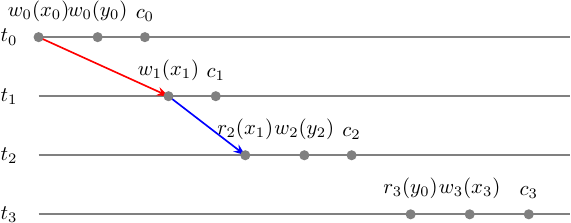
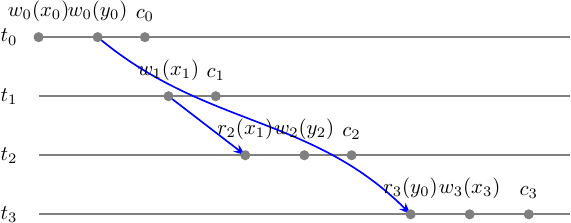
mvsr

diff --git a/public/mvcc/chsgcg.tex b/public/mvcc/chsgcg.tex
@@ -1,0 +1,39 @@
+\documentclass[preview]{standalone}
+\usepackage{tikz,fullpage,tikz-network,verbatim}
+\usetikzlibrary{arrows, petri, topaths, calc, angles, quotes}
+\begin{document}
+\begin{tikzpicture}[scale=1,transform shape,
+>={Stealth[round]},thick,black!50,text=black,
+every new ->/.style={shorten >=1pt},
+graphs/every graph/.style={edges=rounded corners}]
+
+  % \draw (0, 0) grid (10, 5);
+  
+  \draw (0.5, 2) node {$t_1$} (1, 2) -- (10, 2) node { };
+  \draw (0.5, 1) node {$t_2$} (1, 1) -- (10, 1) node { };
+ 
+  % $$ s = r_1(x) w_1(x) r_2(x) w_2(y) r_1(y) w_1(z) c_1 c_2 $$
+  \coordinate (r1x) at (1,2);
+  \coordinate (w1x) at (2,2);
+  \coordinate (r2x) at (3,1);
+  \coordinate (w2y) at (4,1);
+  \coordinate (r1y) at (5,2);
+  \coordinate (w1z) at (6,2);
+  \coordinate (c1)  at (7,2);
+  \coordinate (c2)  at (8,1);
+
+  % conflict graph
+  \draw [red,->,-{Stealth[length=2mm]}] (w1x) -- (r2x);
+  \draw [red,->,-{Stealth[length=2mm]}] (w2y) -- (r1y);
+
+  % step graph
+  \filldraw (r1x) circle [radius=2pt] node [label=above:$r_1(x)$] {};
+  \filldraw (w1x) circle [radius=2pt] node [label=above:$w_1(y)$] {};
+  \filldraw (r2x) circle [radius=2pt] node [label=above:$r_2(x)$] {};
+  \filldraw (w2y) circle [radius=2pt] node [label=above:$w_2(y)$] {};
+  \filldraw (r1y) circle [radius=2pt] node [label=above:$r_1(y)$] {};
+  \filldraw (w1z) circle [radius=2pt] node [label=above:$w_1(z)$] {};
+  \filldraw (c1)  circle [radius=2pt] node [label=above:$c_1$] {};
+  \filldraw (c2)  circle [radius=2pt] node [label=above:$c_2$] {};
+\end{tikzpicture}
+\end{document}

diff --git a/public/mvcc/mvsg.tex b/public/mvcc/mvsg.tex
@@ -1,0 +1,21 @@
+\documentclass[preview]{standalone}
+\usepackage{tikz,fullpage,tikz-network,verbatim}
+\usetikzlibrary{arrows, petri, topaths, calc, angles, quotes}
+\begin{document}
+\begin{tikzpicture}[scale=1,transform shape]
+  % \draw (0, 0) grid (6, 6);
+
+  \SetVertexStyle[FillColor=white,TextFont=\large,MinSize=22]
+  \Vertex[x=1,y=3,label=$t_0$]{t0}
+  \Vertex[x=3,y=5,label=$t_1$]{t1}
+  \Vertex[x=3,y=1,label=$t_2$]{t2}
+  \Vertex[x=5,y=3,label=$t_3$]{t3}
+
+  \SetEdgeStyle[TextFont=\large,LineWidth=0.6pt,InnerSep=0.5pt,Color=red!75]
+  \Edge[label=wr[y],Direct,bend=30](t0)(t3)
+  \Edge[label=wr[x],Direct,bend=-10](t1)(t2)
+  \Edge[label=rw[x],Direct](t2)(t0)
+  \Edge[label=rw[x],Direct](t2)(t3)
+  \Edge[label=ww[y],Direct,bend=50](t2)(t0)
+\end{tikzpicture}
+\end{document}

diff --git a/public/mvcc/mv_step_graph_wcs2.tex b/public/mvcc/mv_step_graph_wcs2.tex
@@ -28,9 +28,11 @@ graphs/every graph/.style={edges=rounded corners}]
   \coordinate (c3)   at (9.3,1);
 
   % mvcs = {(r_2(x_1), w_3(x_3))}
-  % \draw [red,->,-{Stealth[length=2mm]}] (w0x0) to [out=320] (w1x1);
   \draw [blue,->,-{Stealth[length=2mm]}] (w0y0) to [out=320] (r3y0);
   \draw [blue,->,-{Stealth[length=2mm]}] (w1x1) -- (r2x1);
+  \draw [red,->,-{Stealth[length=2mm]}] (r2x1) to [out=170,in=310] (w0x0);
+  \draw [red,->,-{Stealth[length=2mm]}] (r2x1) to [out=340] (w3x3);
+  \draw [red,->,-{Stealth[length=2mm]}] (w2y2) to [out=90,in=30] (w0y0);
 
   % step graph
   \filldraw (w0x0) circle [radius=2pt] node [label=above:$w_0(x_0)$] {};

diff --git a/public/mvcc/mvsm_step_graph_wcs.tex b/public/mvcc/mvsm_step_graph_wcs.tex
@@ -16,8 +16,8 @@ graphs/every graph/.style={edges=rounded corners}]
   
   % m = w_0(x_0) w_0(y_0) c_0 w_1(x_1) c_1 r_2(x_1) w_2(y_2) c_2 r_3(y_0) w_3(x_3) c_3
   \coordinate (w1x1) at (1  ,4);
-  \coordinate (c1) at (2  ,4);
-  \coordinate (r2x1) at (2.8,4);
+  \coordinate (c1) at (1.8  ,4);
+  \coordinate (r2x1) at (2.2,3);
   \coordinate (w2y2) at (3.2,3);
   \coordinate (c2) at (4  ,3);
   \coordinate (w0x0) at (4.5,2);

diff --git a/_drafts/mvcc.md b/_drafts/mvcc.md
@@ -27,23 +27,26 @@ Here we send read $$ r_3(x) $$ back in time to read the output of the transactio
 How it could look like without commuting operations in the history? The answer is simple:
 with the references to the previous versions of variables.
 
-$$ w_1(x_1) w_2(x_2) r_3(x_1), h(r_3(x)) = w_1(x_1) $$
+$$ w_1(x_1) w_2(x_2) r_3(x_1), h(r_3(x)) = w_1(x) $$
 
-Here we have a writes that create versions of a variable $$ x $$. And the read that
-reads one version of $$ t_1 $$. Function $$ h $$ is called a version function. With
-the version function the multi-version histories comes into play.
+Here we have a writes that create versions $$ \{ x_1, x_2 \} $$
+of a variable $$ x $$. And the read that reads one version of $$ t_1 $$.
+Function $$ h $$ is called a version function. With the version function
+the multi-version histories comes into play.
 
 Such histories like one above are called multi-version (mv) histories. It is histories
-with the version function that says who reads what. A read operation can read one of
+with defined version function that says who reads what. A read operation can read one of
 the previously written versions of a variable. If the version function always returns
 the latest version for reads the history called monoversion. Conventional histories
 are equivalent to corresponding monoversion variants.
 
-With mv histories we can produce more serializable histories even if some of the operations
-arrive late. Weikum & Vossen gives a great example of how much bigger the power of
-scheduling can be with the mv-histories. Consider the following history:
+With mv histories we can produce more serializable schedules. Weikum & Vossen gives
+a great example of how much bigger the power of scheduling can be with the mv-histories.
+Consider the following history:
 
 $$ s = r_1(x) w_1(x) r_2(x) w_2(y) r_1(y) w_1(z) c_1 c_2 $$
+
+![]({{ Site.url }}/public/mvcc/chsgcg.png)
 
 This history is not conflict-serializable due to the fact that $$ r_1(y) $$ arrived
 too late so it creates a cycle in the conflict graph of $$ s $$. This history could
@@ -60,20 +63,22 @@ possible:
 $$ h(r_1(y)) = w_0(y) $$
 
 That means that $$ r_1(y) $$ will read the version of $$ y $$ written by the initial
-transaction $$ t_0 $$: literally the previous version before $$ t_2 $$:
+transaction $$ t_0 $$ literally the previous version before $$ t_2 $$:
 
 $$ m = r_1(x_0) w_1(x_1) r_2(x_1) w_2(y_2) r_1(y_0) w_1(z_1) c_1 c_2 $$
 
-This multi-version history $$ m $$ is equivalent to the:  
+This multi-version history $$ m $$ is conflict equivalent to the:  
 
-$$ m_2 = r_1(x_0) w_1(x_1) r_2(x_1) r_1(y_0) w_2(y_2) w_1(z_1) c_1 c_2 $$
+$$ m_2 = r_1(x_0) w_1(x_1) r_2(x_1) [ r_1(y_0) w_2(y_2) ] w_1(z_1) c_1 c_2 $$
 
-That is a monoversion history that is equivalent to $$ s_2 $$ and $$ s_2 \in CSR $$:
+in which we only commuted 2 operations. $$ m_2 $$ is a monoversion history that is
+equivalent to $$ s_2 $$ and $$ s_2 \in CSR $$:
 
 $$ s_2 = r_1(x) w_1(x) r_2(x) r_1(y) w_2(y) w_1(z) c_1 c_2 $$
 
-Thus, multi-versioning allows to serialize more histories. Let's take a look at how
-the serializability works in a case of multi-version histories.
+Now when it's obvious that MVCC is capable of producing more of a correct
+serializable schedulers let's take a look at how the serializability works
+in a case of multi-version histories.
 
 Multi-version serializability
 ---
@@ -83,7 +88,7 @@ There are 2 kinds of MV serializability:
 - MVSR - multi-version view serializability
 - MCSR - multi-version conflict serializability
 
-MVSR is defined by the analogy with the VSR equivalence relation:
+MVSR is defined by the analogy with the VSR:
 $$ m \in MVSR $$ if and only if there exists a serial monoversion
 schedule $$ m' $$ for the same set of transactions such that
 $$ RF(m) = RF(m') $$ where $$ RF $$ is a _read-from_ relation.
@@ -99,8 +104,8 @@ such that all conflict pairs of $$ m $$ occur in the same order in $$ m' $$.
 Interesting nuance of the MV conflict set is its asymmetry:
 conflict set consists of the $$ (r_j(x_i), w_k(x_k)) $$ pairs
 such that $$ w_i(x_i) <_m r_j(x_i) <_m w_k(x_k) $$. So there are
-no _ww_ and _wr_ pairs in the conflict set because commuting _ww_
-does not change anything for following read operations,
+no _ww_ and _wr_ pairs in the mv-conflict set because commuting _ww_
+does not change anything for the following read operations,
 and commuting _wr_ pairs does not affect the read variants
 space in a negative way so if the history with _rw_ pair
 is serializable the one with the _wr_ pair is serializable
@@ -109,9 +114,9 @@ as well.
 This asymmetry leads to the asymmetry in serializability class
 definition such that it's $$ m $$ conflict pairs must occur in
 the same order in $$ m' $$, not the pairs from $$ m' $$. More
-details in [[3]]. I have spent some time to read out the
-definition of the MCSR in Vossen & Weikum book that does not
-make an accent from my point of view on that nuance.
+details in [[3]]. I have spent some time reading out the
+definition of the MCSR in Vossen & Weikum book because they
+do not make an accent on that nuance from my point of view.
 
 The relation between classes is as follows:
 
@@ -133,18 +138,18 @@ Let's draw a multi-version conflict graph (MVCG):
 
 MVCG has no cycles and thus is acyclic. Hence $$ m \in MCSR $$. For even
 greater simplicity let's take a look at the $$ m $$ step-graph along with
-the MV conflict set. It will show in a graphical way where from the single
+the MV conflict set. It will show us in a graphical way where the single
 conflict edge $$ x $$ originates from and what we can commute to get
 serial monoversion history $$ m' $$ that will be $$ m \approx_c m' $$.
 
 ![]({{ Site.url }}/public/mvcc/mv_step_graph_wcs.png)
 
-Now let's commute $$ m $$ to find $$ m' $$. What can confuse here is that
-the history $$ m $$ is already serial but not monoversion. Intuitively, what
-you would want to do is to have $$ m' = t_0 t_3 t_1 t_2 $$ but it is incorrect,
-because reverses conflict pair $$ (r_2(x_1), w_3(x_3)) $$ which we can't commute.
-So the only chance we have is to move $$ t_0 $$ forward commuting operations
-1-by-1:
+Now let's commute something in $$ m $$ to find $$ m' $$ - serial monoversion history.
+What can confuse here is that the history $$ m $$ is already serial but not monoversion.
+Intuitively, what you would try to do first is to have $$ m' = t_0 t_3 t_1 t_2 $$
+but it is incorrect, because reverses conflict pair $$ (r_2(x_1), w_3(x_3)) $$
+which we can't commute. So the only chance we have is to move $$ t_0 $$ forward,
+commuting operations 1-by-1:
 
 $$
 m = w_0(x_0) w_0(y_0) c_0 w_1(x_1) c_1 r_2(x_1) w_2(y_2) c_2 r_3(y_0) w_3(x_3) c_3 \\
@@ -157,11 +162,11 @@ s' = w_1(x) c_1 r_2(x) w_2(y) c_2 w_0(x) w_0(y) c_0 r_3(y) w_3(x) c_3 \\
 = t_1 t_2 t_0 t_3
 $$
 
-So fun part is that we move our transactions $$ t_1, t_2 $$ back in time behind
-the $$ t_0 $$ which is initial state transaction. However, commuting $$ t_0 $$
-does not prevent us from imagining proper serial monoversion history even tho
-it is equivalent to the history when we send our transaction even further back
-in time.
+The fun part is that we moved our transactions $$ t_1, t_2 $$ back in time behind
+the $$ t_0 $$ that is an initial state transaction. However, commuting $$ t_0 $$
+did not prevent us from imagining the proper serial monoversion history even tho
+the whole thing is equivalent to the history in which we send scheduling transactions
+even further back in time.
 
 The conflicts of $$ m $$ occur in the same order in $$ m' $$ so we are good:
 
@@ -172,16 +177,68 @@ such that $$ m \approx_c m' $$.
 Now let's take a look at how $$ m $$ looks like in MVSR. We already know
 that $$ MCSR \subset MVSR $$ so $$ m \in MCSR \Rightarrow m \in MVSR $$.
 
-But in anyway, you can think that $$ m' $$ that we found for MCSR will be
-sufficient for MVSR. Let's check it!
+But in anyway, is it $$ m' $$ that we found for the MCSR case is sufficient
+for the MVSR. Let's test it!
 
-First of all, let's prove one more time that $$ m \in MVSR $$. To do that
-we need to build multi-version serializability graph (MVSG) to see it is
-acycle. But we can't just do that. We need version ordering relation. In
-anyway, MVSR is defined as $$ RF(m) = RF(m') $$, so let's start with the
+First of all, let's prove that $$ m \in MVSR $$ on it's own.
+We will build a multi-version serializability graph (MVSG) to see it is
+acycle. We can't do that without defining a version order relation up front.
+In anyway, MVSR is defined as $$ RF(m) = RF(m') $$, so let's start with the
 step-graph with read-from relation:
 
 ![]({{ Site.url }}/public/mvcc/mv_step_graph_wrf.png)
+
+What you see here is 1/3 of the MVSG edges that consists of the conflict
+graph $$ G(s) $$ that are _wr_ edges of the form $$ (w_i(x_i), r_j(x_i)) $$.
+The rest consists of the conflicts depending on the versions order.
+
+Now taking the version ordering from our $$ m' $$ MCSR case we are having:
+
+$$
+x_1 << x_0 << x_3 \\
+y_2 << y_0
+$$
+
+For $$ r_2(x_1) $$ we have $$ w_1(x_1) <_{m'} r_2(x_1) <_{m'} w_0(x_0) $$ and
+$$ w_1(x_1) <_{m'} r_2(x_1) <_{m'} w_3(x_3) $$ so we must add 2 edges to the MVSG:
+$$ \{(r_2(x_1), w_0(x_0)), (r_2(x_1), w_3(x_3))\} $$.
+
+For $$ r_3(y_0) $$ we have $$ w_2(y_2) <_{m'} w_0(y_0) <_{m'} r_3(y_0) $$
+so we must add an edge to the MVSG: $$ (w_2(y_2), w_0(y_0)) $$.
+
+So we have got:
+
+![]({{ Site.url }}/public/mvcc/mv_step_graph_wcs2.png)
+
+By collapsing operations into the transactions vertices we can obtain a MVSG:
+
+![]({{ Site.url }}/public/mvcc/mvsg.png)
+
+It's easy to see it is acycle and that means $$ m \in MVSR $$ and the version
+order we picked based on $$ m' $$ serial monoversion history is good enough.
+
+For more curiosity we can compare _read-from_ sets of $$ m, m' $$:
+
+$$
+m = w_0(x_0) w_0(y_0) c_0 w_1(x_1) c_1 r_2(x_1) w_2(y_2) c_2 r_3(y_0) w_3(x_3) c_3 \\
+RF(m) = \{ (t_1, x, t_2), (t_0, y, t_3) \} \\
+m' = w_1(x_1) c_1 r_2(x_1) w_2(y_2) c_2 w_0(x_0) w_0(y_0) c_0 r_3(y_0) w_3(x_3) c_3 \\
+= t_1 t_2 t_0 t_3 \\
+RF(m') = \{ (t_1, x, t_2), (t_0, y, t_3) \} \\
+\Rightarrow \\
+RF(m) = RF(m') \\
+\Rightarrow \\
+m \in MVSR
+$$
+
+And finally for those who are curious how the version function looks like
+for $$ m $$:
+
+$$
+h(r_2(x)) = w_2(x) \\
+h(r_3(y)) = w_0(y) \\
+h(w_i(a)) = w_i(a)
+$$
 
 MVCC schedulers
 ---
